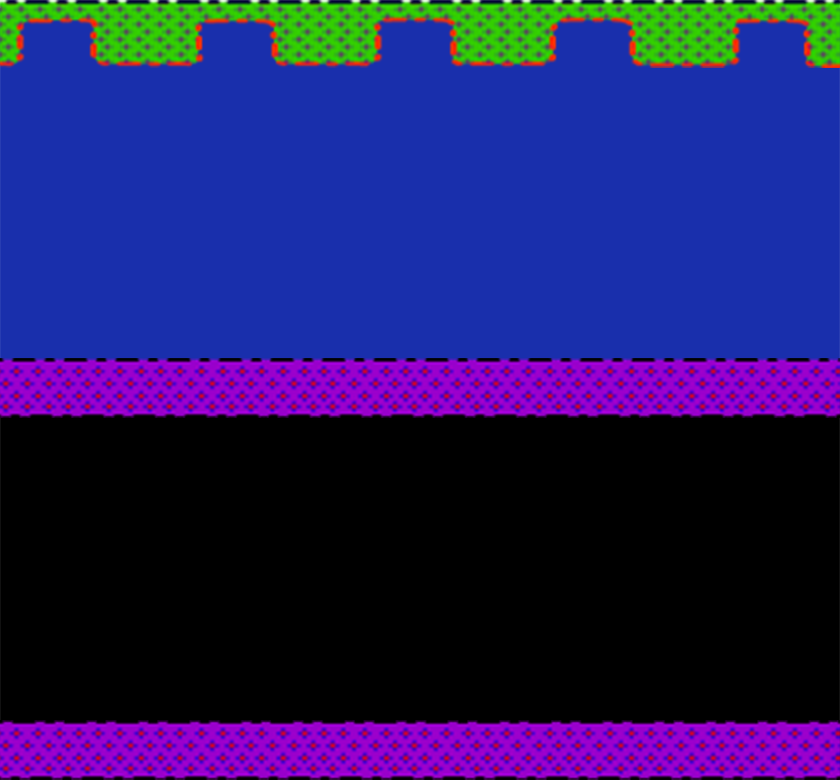
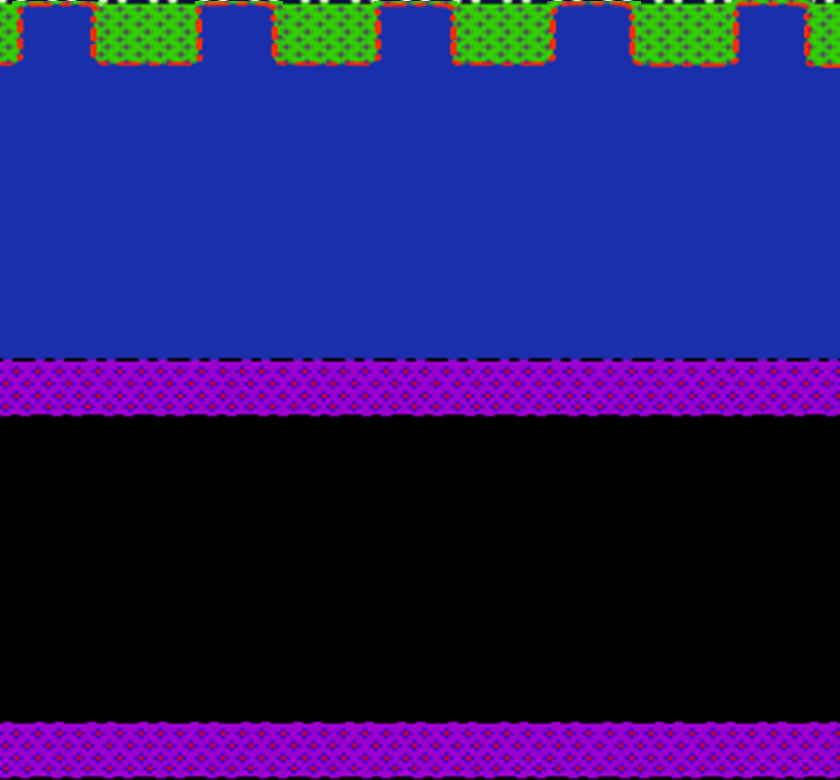
Goals done & bug fixing
Goals collision,
Goals reset and counter

diff --git a/src/ts/App.ts b/src/ts/App.ts
@@ -14,13 +14,16 @@ export class GameScene extends Phaser.Scene {
 
   private player: Frog
   private frogInitialPosition: Position
-  private level = 1
-  private enemiesGroup
+  private enemiesGroup: Phaser.GameObjects.Group;
+  private goalObjectGroup: Phaser.GameObjects.Group;
   private timePerLevel:number
-  private score: number = 0
 
+  private level = 1
+  private score: number = 0
   private lives: number;
   private lifeImages = []
+  public goalsScored = 0
+
   private menuGameOver: Phaser.GameObjects.Group;
   
   private moveKeys;
@@ -31,7 +34,8 @@ export class GameScene extends Phaser.Scene {
   }
 
   preload() {
-    this.load.image('background', 'assets/background.png');
+    this.load.image('background', 'assets/background.jpeg');
+    this.load.image('goal', 'assets/goal.png');
     this.load.image('froggertitle', 'assets/froggerTitle.png');
     this.load.image('GameOverScreen', 'assets/gameOverScreen.png');
     this.load.image('RetryButton', 'assets/RetryButton.png');
@@ -63,11 +67,12 @@ export class GameScene extends Phaser.Scene {
     scene = this
 
     this.enemiesGroup = this.add.group();
-    this.enemiesGroup.enableBody = true;
+    this.goalObjectGroup = this.add.group()
 
     this.kill = this.kill.bind( this )
     this.float = this.float.bind( this )
     this.collision = this.collision.bind( this )
+    this.reachGoal = this.reachGoal.bind( this )
 
   }
 
@@ -81,6 +86,7 @@ export class GameScene extends Phaser.Scene {
     this.player = new Frog({ x: this.frogInitialPosition.x , y: this.frogInitialPosition.y})
 
     this.physics.add.collider( this.enemiesGroup, this.player, this.collision );
+    this.physics.add.collider( this.goalObjectGroup, this.player, this.reachGoal );
 
     this.setKeys()
 
@@ -91,6 +97,9 @@ export class GameScene extends Phaser.Scene {
     this.keys();
     this.events.emit( "updateEnemy" );
     this.player.update()
+    if( this.goalsScored >= 5 ){
+      this.nextLevel()
+    }
 
   }
 
@@ -108,11 +117,27 @@ export class GameScene extends Phaser.Scene {
 
   }
 
-  public kill(){
+  reachGoal( goal ){
 
+      goal.reached()
+      this.player.resetToStartPosition()
+
+  }
+
+  public kill(){
+    console.log("kill")
     this.player.death( () => {
       scene.decrementLives()
     })
+
+  }
+
+  private nextLevel(){
+
+    this.goalsScored = 0;
+    this.level++
+    this.player.resetToStartPosition()
+    map.resetGoals()
 
   }
 
@@ -149,12 +174,10 @@ export class GameScene extends Phaser.Scene {
     this.tweens.add({
       targets: timerRect,
       width: widthBar,
-      repeat: -1,
+      repeat: 0,
       ease: 'Linear',
       duration: this.timePerLevel,
-      onComplete: () => {
-        self.kill()
-      }
+      onComplete: () => self.kill()
     });
 
   }

diff --git a/src/ts/Map/Map.ts b/src/ts/Map/Map.ts
@@ -1,13 +1,53 @@
 import { Tile } from "../Tile";
 import * as consts from "../Utils/consts"
 import { TilePosition } from "../game.interfaces";
+import { scene, game } from "../App";
+import { Utils } from "../Utils/utils";
 
 export class Map {
 
     private map;
+    private goals: GoalObj[] = []
+    private goalsPoisition = [
+        { 
+            x: Utils.halfScreen('x') + 55, 
+            y: Utils.halfScreen('y') + 30
+        },
+        { 
+            x: Utils.halfScreen('x') + 235, 
+            y: Utils.halfScreen('y') + 30
+        },
+        { 
+            x: Utils.halfScreen('x') + 415, 
+            y: Utils.halfScreen('y') + 30
+        },
+        { 
+            x: Utils.halfScreen('x') + 593, 
+            y: Utils.halfScreen('y') + 30
+        },
+        { 
+            x: Utils.halfScreen('x') + 770, 
+            y: Utils.halfScreen('y') + 30
+        },
+    ]
 
     constructor(){
         this.map = this.createMap()  
+
+        this.createGoals()
+    }
+
+    createGoals(){
+        this.goalsPoisition.map( ( goal, i ) => {
+            let goalObj = new GoalObj(scene, goal.x, goal.y )
+            scene.physics.add.existing( goalObj );
+            scene.goalObjectGroup.add( goalObj )
+            this.goals.push( goalObj )
+        })
+    }
+
+    resetGoals(){
+        this.goals.map( goal => goal.reset() )
     }
 
     createMap(): Tile[][]{
@@ -30,5 +70,26 @@ export class Map {
     public getTile({ tileX, tileY}: TilePosition ):Tile{
         return this.map[tileX][tileY]
     }
+
+}
+
+class GoalObj extends Phaser.GameObjects.Image {
+    constructor(scene, x, y){
+        super(scene, x, y, 'goal');
+        scene.add.existing(this).setDepth(2)
+        this.visible = false
+        
+        this.setSize(20,20)
+    }
+
+    reached(){
+        this.visible = true;
+        scene.goalsScored++;
+    }
+
+    reset(){
+        this.visible = false
+    }
+
 
 }

diff --git a/src/ts/Frog.ts b/src/ts/Frog.ts
@@ -77,8 +77,10 @@ export class Frog extends Phaser.GameObjects.Sprite {
             scene.kill()
 
         if( this.isRiver() && !this.isPlatform ){
-            scene.kill()
+            //scene.kill()
+            console.log("kill")
         }
+
     }
 
     public move( direction: directionEnum ){
@@ -120,6 +122,13 @@ export class Frog extends Phaser.GameObjects.Sprite {
 
     }
 
+    public resetToStartPosition(){
+        let { x, y } = Utils.convertTileToPosition( consts.FROG.INITIAL_TILE_POSITION )
+        this.setPosition( x, y )
+        this.setDirection( directionEnum.NORTH )
+        this.setTexture("frog", 0)
+    }
+
     public death( callback ) {
 
         if( !this.isDying ){
@@ -129,10 +138,7 @@ export class Frog extends Phaser.GameObjects.Sprite {
 
             this.once('animationcomplete', () => {
 
-                let { x, y } = Utils.convertTileToPosition( consts.FROG.INITIAL_TILE_POSITION )
-                this.setPosition( x, y )
-                this.setDirection( directionEnum.NORTH )
-                this.setTexture("frog", 0)
+                this.resetToStartPosition()
                 callback()
                 this.isDying = false
     

diff --git a/src/ts/Enemies/Car.ts b/src/ts/Enemies/Car.ts
@@ -44,13 +44,11 @@ export class Car extends Enemy{
 
 }
 
-function getCarFrameAndTexture( tileY: number ) :
-    { texture: string, frame: number} {
-
+function getCarFrameAndTexture( tileY: number ) :{ texture: string, frame: number} {
         let isFirstRow =  tileY - 7 <= 0
         return {
             texture: isFirstRow ? "truck" : "cars",
-            frame: isFirstRow ? null : tileY - 7,
+            frame: isFirstRow ? null : tileY - 8,
         }
 }
 

diff --git a/src/ts/Utils/consts.ts b/src/ts/Utils/consts.ts
@@ -4,6 +4,7 @@ export const TILE_SIZE = 60
 export const KEY_PRESSED_TIMER = 300
 export const DIFFICULTY_INCREMENT = 0.2
 export const TIME_PER_LEVEL = 25000
+export const GOAL_SIZE = 40
 
 export const CAR = {
     SPEED: 2,
@@ -18,7 +19,7 @@ export const CANVAS = {
 
 export const BACKGROUND = {
     WIDTH: 840,
-    HEIGHT: 780,
+    HEIGHT: 800,
     X_TILE_SIZE: 14,
     Y_TILE_SIZE: 13,
     RIVER_TOP_HEIGHT: 243,

diff --git a/src/ts/Utils/utils.ts b/src/ts/Utils/utils.ts
@@ -16,7 +16,7 @@ export class Utils {
         }
 
         newPos.x += this.halfScreen('x')
-        newPos.y += this.halfScreen('y')
+        newPos.y += this.halfScreen('y' )
         
         return {
             x: newPos.x,
